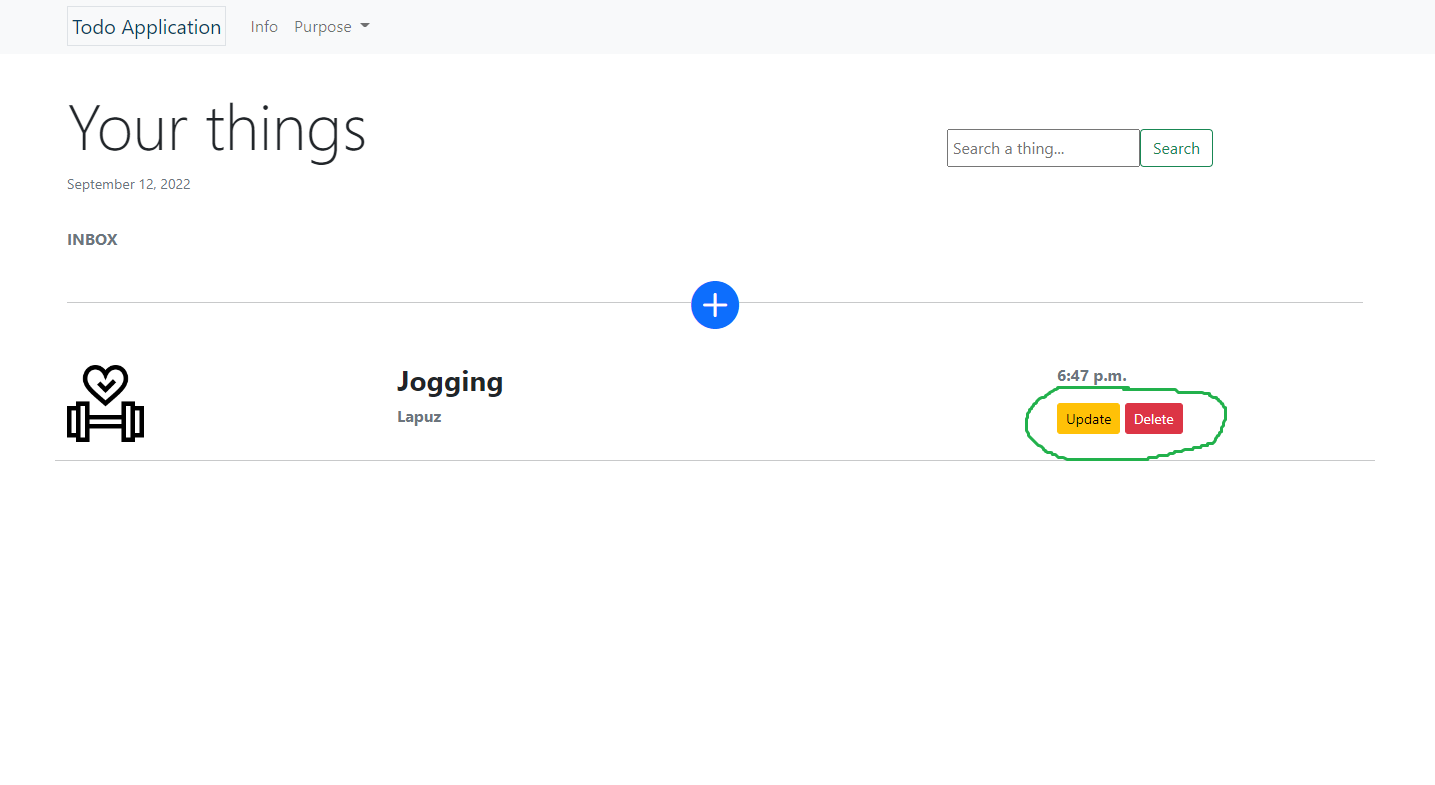
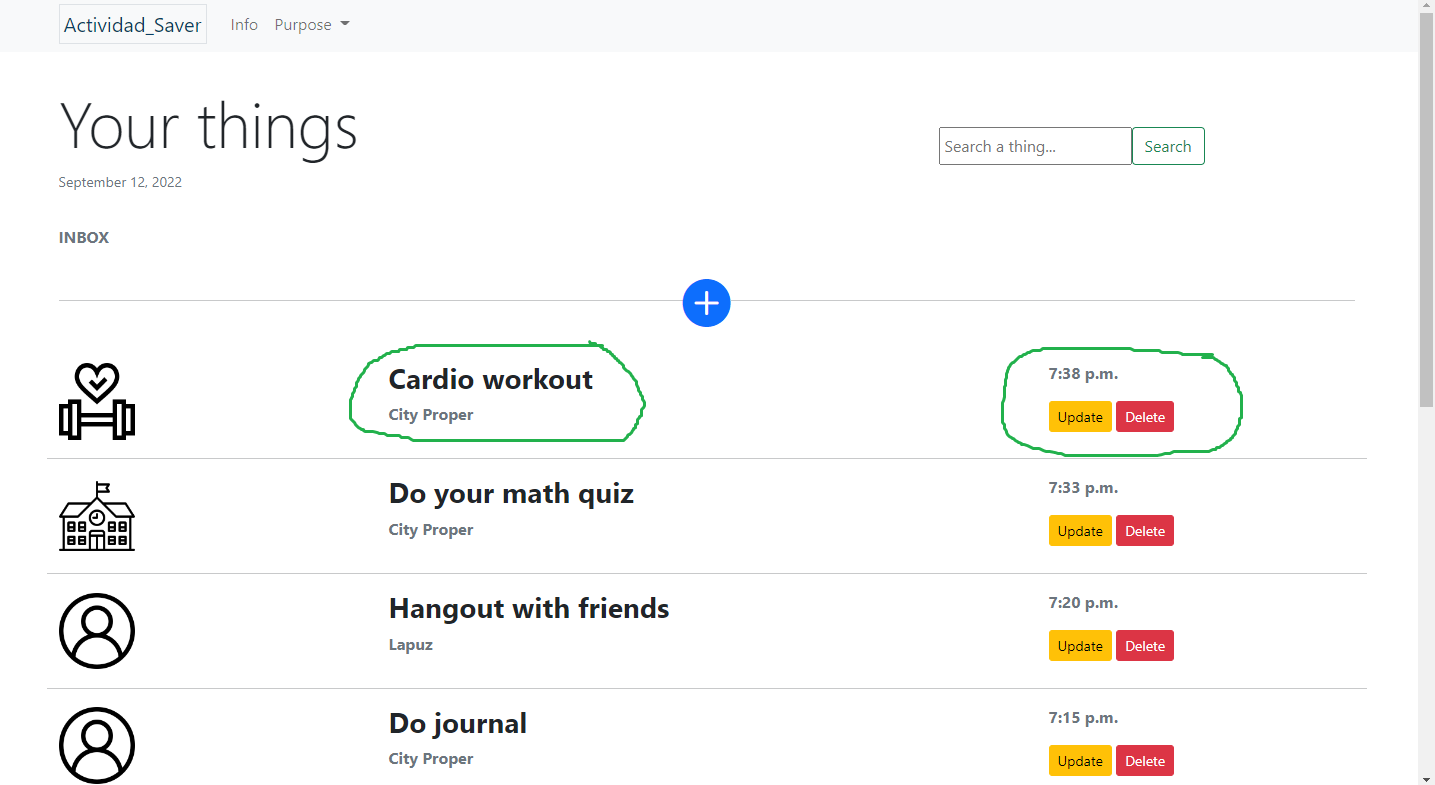
Change project name

diff --git a/lists/templates/partials/navbar.html b/lists/templates/partials/navbar.html
@@ -1,7 +1,7 @@
 {% load static %}
 <nav class="navbar navbar-expand-lg navbar-light bg-light mb-3">
     <div class="container">
-      <a class="navbar-brand border p-1" href="{% url 'home' %}" style="color: #0a3d62;">Todo Application</a>
+      <a class="navbar-brand border p-1" href="{% url 'home' %}" style="color: #0a3d62;">Actividad_Saver</a>
       <button class="navbar-toggler" type="button" data-bs-toggle="collapse" data-bs-target="#navbarNav" aria-controls="navbarNav" aria-expanded="false" aria-label="Toggle navigation">
         <span class="navbar-toggler-icon"></span>
       </button>

diff --git a/lists/templates/partials/base.html b/lists/templates/partials/base.html
@@ -16,7 +16,7 @@
         
     {% endblock file_css %}
         
-    <title>{% block title %}Todo App{% endblock title %}</title>
+    <title>Actividad Saver</title>
 </head>
 <body>
     

diff --git a/actividad_saver/urls.py b/actividad_saver/urls.py
@@ -15,14 +15,8 @@ Including another URLconf
 """
 from django.contrib import admin
 from django.urls import path, include
-from django.conf.urls import handler404
 
 urlpatterns = [
     path('admin/', admin.site.urls),
     path('', include('lists.urls'))
 ]
-
-handler404 = 'lists.views.page_not_found'
-handler500 = 'lists.views.error'
-handler403 = 'lists.views.permission_denied'
-handler400 = 'lists.views.bad_request'

diff --git a/actividad_saver/settings.py b/actividad_saver/settings.py
@@ -39,7 +39,7 @@ MIDDLEWARE = [
     'django.middleware.clickjacking.XFrameOptionsMiddleware',
 ]
 
-ROOT_URLCONF = 'todo_list.urls'
+ROOT_URLCONF = 'actividad_saver.urls'
 
 TEMPLATES = [
     {
@@ -57,7 +57,7 @@ TEMPLATES = [
     },
 ]
 
-WSGI_APPLICATION = 'todo_list.wsgi.application'
+WSGI_APPLICATION = 'actividad_saver.wsgi.application'
 
 
 # Database

diff --git a/manage.py b/manage.py
@@ -6,7 +6,7 @@ import sys
 
 def main():
     """Run administrative tasks."""
-    os.environ.setdefault('DJANGO_SETTINGS_MODULE', 'todo_list.settings')
+    os.environ.setdefault('DJANGO_SETTINGS_MODULE', 'actividad_saver.settings')
     try:
         from django.core.management import execute_from_command_line
     except ImportError as exc:

diff --git a/actividad_saver/wsgi.py b/actividad_saver/wsgi.py
@@ -11,6 +11,6 @@ import os
 
 from django.core.wsgi import get_wsgi_application
 
-os.environ.setdefault('DJANGO_SETTINGS_MODULE', 'todo_list.settings')
+os.environ.setdefault('DJANGO_SETTINGS_MODULE', 'actividad_saver.settings')
 
 application = get_wsgi_application()

diff --git a/readme.md b/readme.md
@@ -19,31 +19,31 @@ Install the SnakeReader with the following:
 ## How to Use the Project
 #### This is your home page when it's empty. Click the center plus button for you to create your activity. If you want to search input your activity title and click the search button.
 ![none](screenshots/1.png?raw=true)
-#### Then filled-up all the input fields and click the submit button. The note field is up to you if you want to put it.
+#### Then filled-up all the input fields and click the submit button. The note field is up to you if you want to put it. 
 ![none](screenshots/2.png?raw=true)
-#### Your activity will be posted after you create it. You could click the update button if there's something you want to update or edit. There's also a delete button for you to delete that activity.
+#### Your activity will be posted after you create it. You could click the update button if there's something you want to update or edit. There's also a delete button for you to delete that activity. The time will show on what time you create that.
 ![none](screenshots/3.png?raw=true)
 #### You could update or just edit. Mark check if you already completed that activity.
 ![none](screenshots/4.png?raw=true)
-#### This is your delete page where it will ask you again if you're sure to delete the activity. You could click the back button if you don't want to.
-![none](screenshots/5.png?raw=true)
 #### This would appear if you put many activities on your list and completed the activity.
 ![none](screenshots/6.png?raw=true)
+#### This is your delete page where it will ask you again if you're sure to delete the activity. You could click the back button if you don't want to.
+![none](screenshots/5.png?raw=true)
 #### When you use the search field. It will show all the possible activities that you're finding. In this example, I searched for the activity that contained to letter a and on the right side, it shows how many activities. 
 ![none](screenshots/7.png?raw=true)
 #### This will be shown how many activities in each purpose. And also the number completed.
 ![none](screenshots/8.png?raw=true)
 #### You could choose a specific purpose. For example, I choose the fitness area.
 ![none](screenshots/10.png?raw=true)
-#### Then all the fitness purposes appear.
+#### Then all the fitness purposes appear. It also shows how many fitness are there. In this example, it's 3.
 ![none](screenshots/11.png?raw=true)
 
 ## Badges
 ![open source](https://img.shields.io/badge/Open%20Source-%F0%9F%92%9A-white)
-![GitHub contributors](https://img.shields.io/github/contributors/Llanz-dev/SnakeReader)
-![downloads](https://img.shields.io/github/downloads/Llanz-dev/SnakeReader/total)
+![GitHub contributors](https://img.shields.io/github/contributors/Llanz-dev/Actividad_Saver)
+![downloads](https://img.shields.io/github/downloads/Llanz-dev/Actividad_Saver/total)
 ![Django](https://img.shields.io/badge/django-4.1.1-brightgreen)
-![forks](https://img.shields.io/github/last-commit/Llanz-dev/SnakeReader)
+![forks](https://img.shields.io/github/last-commit/Llanz-dev/Actividad_Saver)
 ![followers](https://img.shields.io/github/followers/Llanz-dev?style=social)
 ![stars](https://img.shields.io/github/stars/Llanz-dev?style=social)
-![forks](https://img.shields.io/github/forks/Llanz-dev/SnakeReader?style=social)
+![forks](https://img.shields.io/github/forks/Llanz-dev/Actividad_Saver?style=social)
